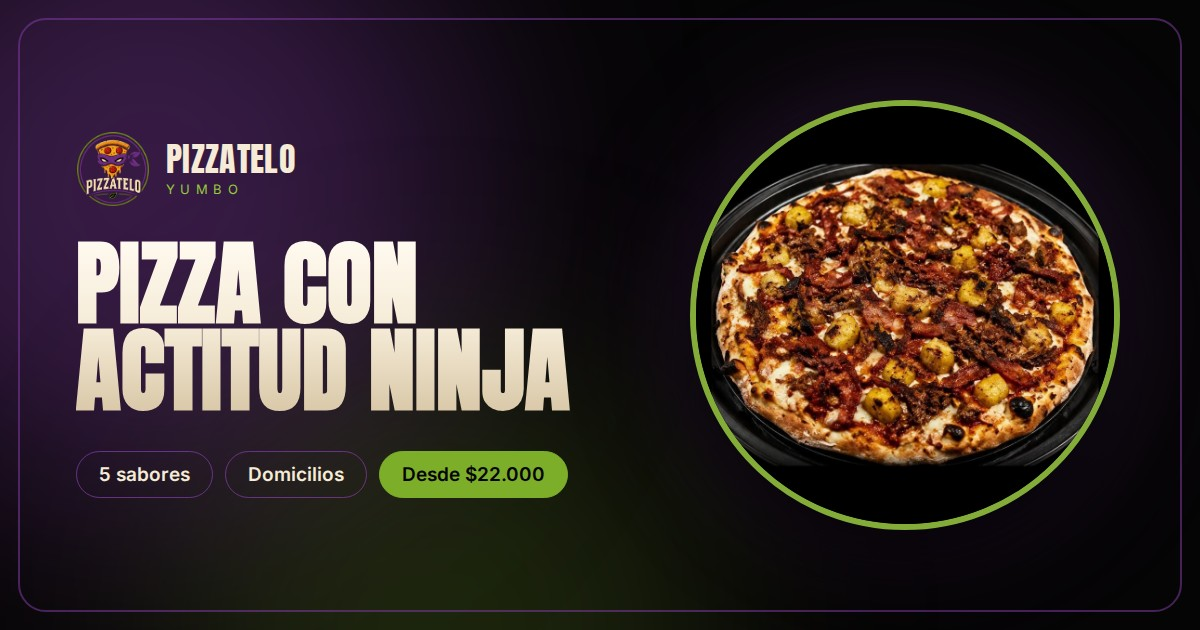
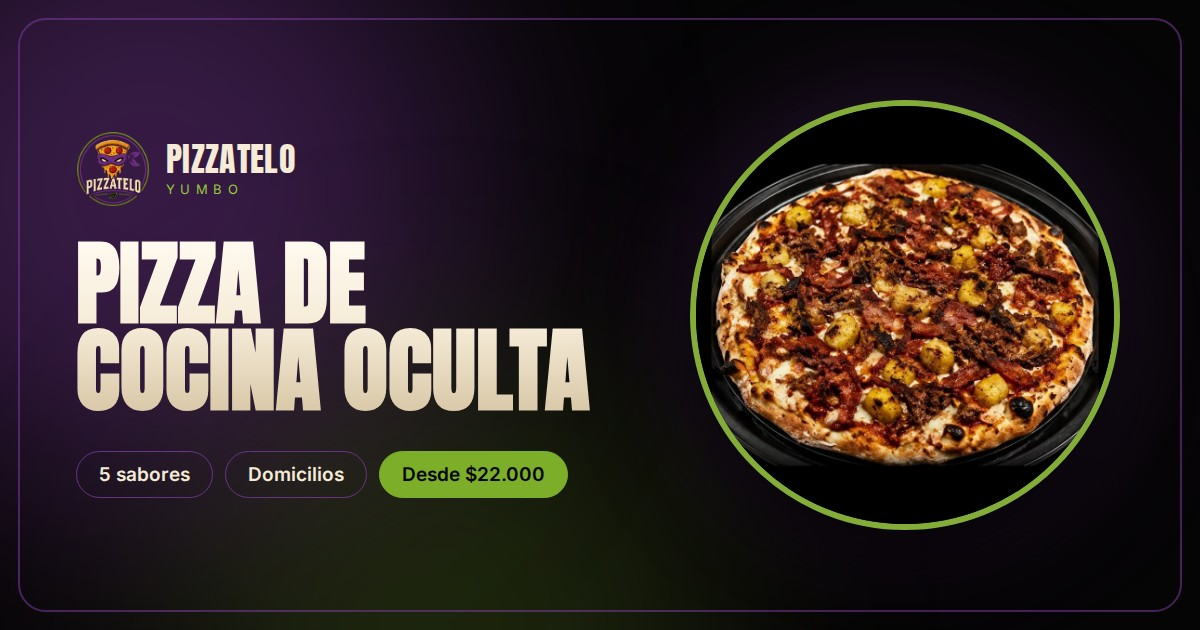
Actualizar contacto, concepto de marca e Instagram real
Cambios pedidos por el negocio:
- WhatsApp de contacto a [phone redacted] (el Nequi NO cambia: sigue el
  3108484727 del flyer de pagos, confirmado)
- "actitud ninja" -> "cocina oculta" en titular, etiqueta, descripción
  e imagen de compartir; se añade "sin local, sin filas" para explicar
  el modelo
- Instagram real @_pizzatelo, ahora visible como botón en el footer;
  se elimina el Facebook inventado

De paso: se corrige un desbordamiento horizontal en móvil donde el
bloque de estadísticas estiraba la columna y sacaba el titular, el
párrafo y los botones fuera de pantalla (verificado a 360px y 390px).

Changed region(s): [[0.0617, 0.3619, 0.4933, 0.6635]]

diff --git a/src/components/Hero.tsx b/src/components/Hero.tsx
@@ -20,21 +20,22 @@ export function Hero() {
       </div>
 
       <div className="mx-auto grid max-w-6xl items-center gap-10 px-4 sm:px-6 lg:grid-cols-[1.05fr_0.95fr] lg:gap-16">
-        <div className="animate-rise text-center lg:text-left">
+        {/* min-w-0 evita que el contenido más ancho estire la columna del grid */}
+        <div className="animate-rise min-w-0 text-center lg:text-left">
           <p className="inline-flex items-center gap-2 rounded-full border border-basil-500/40 bg-basil-500/10 px-4 py-1.5 text-xs font-semibold tracking-[0.2em] text-basil-300">
             <span className="h-1.5 w-1.5 rounded-full bg-basil-400" />
-            PIZZERÍA ARTESANAL · {site.city.toUpperCase()}
+            COCINA OCULTA · {site.city.toUpperCase()}
           </p>
 
           <h1 className="font-display text-brand-gradient mt-6 text-[clamp(3rem,11vw,5.75rem)] leading-[0.95]">
-            Pizza con
+            Pizza de
             <br />
-            actitud ninja
+            cocina oculta
           </h1>
 
           <p className="mx-auto mt-6 max-w-md text-base leading-relaxed text-cream-dim lg:mx-0 sm:text-lg">
-            Masa artesanal, ingredientes frescos y combinaciones que solo encuentras aquí. Elige tu
-            favorita y pídela por WhatsApp en un toque.
+            Sin local, sin filas: cocinamos solo para domicilio. Masa artesanal, ingredientes
+            frescos y combinaciones que solo encuentras aquí. Pídela por WhatsApp en un toque.
           </p>
 
           <div className="mt-8 flex flex-col items-center gap-3 sm:flex-row sm:justify-center lg:justify-start">
@@ -54,18 +55,20 @@ export function Hero() {
             </a>
           </div>
 
-          <dl className="mt-10 flex justify-center gap-8 lg:justify-start">
+          <dl className="mt-10 flex flex-wrap justify-center gap-x-5 gap-y-4 sm:gap-x-8 lg:justify-start">
             <div>
               <dt className="text-xs uppercase tracking-widest text-cream-dim">Desde</dt>
-              <dd className="font-display mt-1 text-2xl text-basil-300">{formatPrice(cheapest)}</dd>
+              <dd className="font-display mt-1 text-xl text-basil-300 sm:text-2xl">
+                {formatPrice(cheapest)}
+              </dd>
             </div>
-            <div className="border-l border-grape-700/60 pl-8">
+            <div className="border-l border-grape-700/60 pl-5 sm:pl-8">
               <dt className="text-xs uppercase tracking-widest text-cream-dim">Sabores</dt>
-              <dd className="font-display mt-1 text-2xl text-basil-300">{pizzas.length}</dd>
+              <dd className="font-display mt-1 text-xl text-basil-300 sm:text-2xl">{pizzas.length}</dd>
             </div>
-            <div className="border-l border-grape-700/60 pl-8">
+            <div className="border-l border-grape-700/60 pl-5 sm:pl-8">
               <dt className="text-xs uppercase tracking-widest text-cream-dim">Entrega</dt>
-              <dd className="font-display mt-1 text-2xl text-basil-300">Domicilio</dd>
+              <dd className="font-display mt-1 text-xl text-basil-300 sm:text-2xl">Domicilio</dd>
             </div>
           </dl>
         </div>

diff --git a/src/components/Footer.tsx b/src/components/Footer.tsx
@@ -22,6 +22,20 @@ export function Footer() {
           <p className="mt-1 text-sm text-cream-dim">{site.tagline}</p>
         </div>
 
+        <a
+          href={site.social.instagram}
+          target="_blank"
+          rel="noopener noreferrer"
+          className="inline-flex items-center gap-2 rounded-full border border-grape-600/60 px-5 py-2.5 text-sm font-medium text-cream transition-colors hover:border-basil-400 hover:text-basil-300"
+        >
+          <svg viewBox="0 0 24 24" className="h-4 w-4 fill-current" aria-hidden="true">
+            <path d="M12 2.16c3.2 0 3.58.01 4.85.07 1.17.05 1.8.25 2.23.41.56.22.96.48 1.38.9.42.42.68.82.9 1.38.16.42.36 1.06.41 2.23.06 1.27.07 1.65.07 4.85s-.01 3.58-.07 4.85c-.05 1.17-.25 1.8-.41 2.23-.22.56-.48.96-.9 1.38-.42.42-.82.68-1.38.9-.42.16-1.06.36-2.23.41-1.27.06-1.65.07-4.85.07s-3.58-.01-4.85-.07c-1.17-.05-1.8-.25-2.23-.41-.56-.22-.96-.48-1.38-.9-.42-.42-.68-.82-.9-1.38-.16-.42-.36-1.06-.41-2.23-.06-1.27-.07-1.65-.07-4.85s.01-3.58.07-4.85c.05-1.17.25-1.8.41-2.23.22-.56.48-.96.9-1.38.42-.42.82-.68 1.38-.9.42-.16 1.06-.36 2.23-.41 1.27-.06 1.65-.07 4.85-.07M12 0C8.74 0 8.33.01 7.05.07 5.78.13 4.9.33 4.14.63c-.79.3-1.46.72-2.13 1.38C1.35 2.68.93 3.35.63 4.14.33 4.9.13 5.78.07 7.05.01 8.33 0 8.74 0 12s.01 3.67.07 4.95c.06 1.27.26 2.15.56 2.91.3.79.72 1.46 1.38 2.13.67.66 1.34 1.08 2.13 1.38.76.3 1.64.5 2.91.56C8.33 23.99 8.74 24 12 24s3.67-.01 4.95-.07c1.27-.06 2.15-.26 2.91-.56.79-.3 1.46-.72 2.13-1.38.66-.67 1.08-1.34 1.38-2.13.3-.76.5-1.64.56-2.91.06-1.28.07-1.69.07-4.95s-.01-3.67-.07-4.95c-.06-1.27-.26-2.15-.56-2.91-.3-.79-.72-1.46-1.38-2.13C21.32 1.35 20.65.93 19.86.63 19.1.33 18.22.13 16.95.07 15.67.01 15.26 0 12 0z" />
+            <path d="M12 5.84a6.16 6.16 0 1 0 0 12.32 6.16 6.16 0 0 0 0-12.32zm0 10.16a4 4 0 1 1 0-8 4 4 0 0 1 0 8z" />
+            <circle cx="18.41" cy="5.59" r="1.44" />
+          </svg>
+          @_pizzatelo
+        </a>
+
         <div className="flex flex-wrap justify-center gap-x-6 gap-y-2 text-sm text-cream-dim">
           <a href="#menu" className="transition-colors hover:text-basil-300">
             Menú

diff --git a/src/config/site.ts b/src/config/site.ts
@@ -5,15 +5,15 @@
 export const site = {
   name: "Pizzatelo",
   city: "Yumbo",
-  tagline: "Pizza artesanal con actitud ninja",
+  tagline: "Pizza artesanal de cocina oculta",
   description:
     "Menú de Pizzatelo Yumbo: pizzas artesanales horneadas al momento. Pepperoni, Hawaiana, Samba, Pollo Champiñones y nuestra Especial. Pide por WhatsApp.",
   url: "https://pizzatelo-menu.vercel.app",
 
   /** Número que recibe los pedidos, en formato internacional sin signos. */
-  whatsapp: "[phone redacted]",
+  whatsapp: "[phone redacted]",
   /** El mismo número, formateado para mostrar en pantalla. */
-  phoneDisplay: "310 848 4727",
+  phoneDisplay: "323 348 4308",
 
   hours: [
     { days: "Lunes a Jueves", time: "5:00 p.m. – 10:00 p.m." },
@@ -21,6 +21,9 @@ export const site = {
     { days: "Domingo", time: "5:00 p.m. – 10:00 p.m." },
   ],
 
+  // Ojo: el Nequi es un número distinto al de contacto (whatsapp, arriba).
+  // Este sale del flyer de métodos de pago y es donde llega la plata: no lo
+  // cambies sin confirmarlo con el negocio.
   payments: [
     {
       id: "nequi",
@@ -46,8 +49,7 @@ export const site = {
   ],
 
   social: {
-    instagram: "https://instagram.com/pizzatelo",
-    facebook: "https://facebook.com/pizzatelo",
+    instagram: "https://www.instagram.com/_pizzatelo",
   },
 } as const;
 